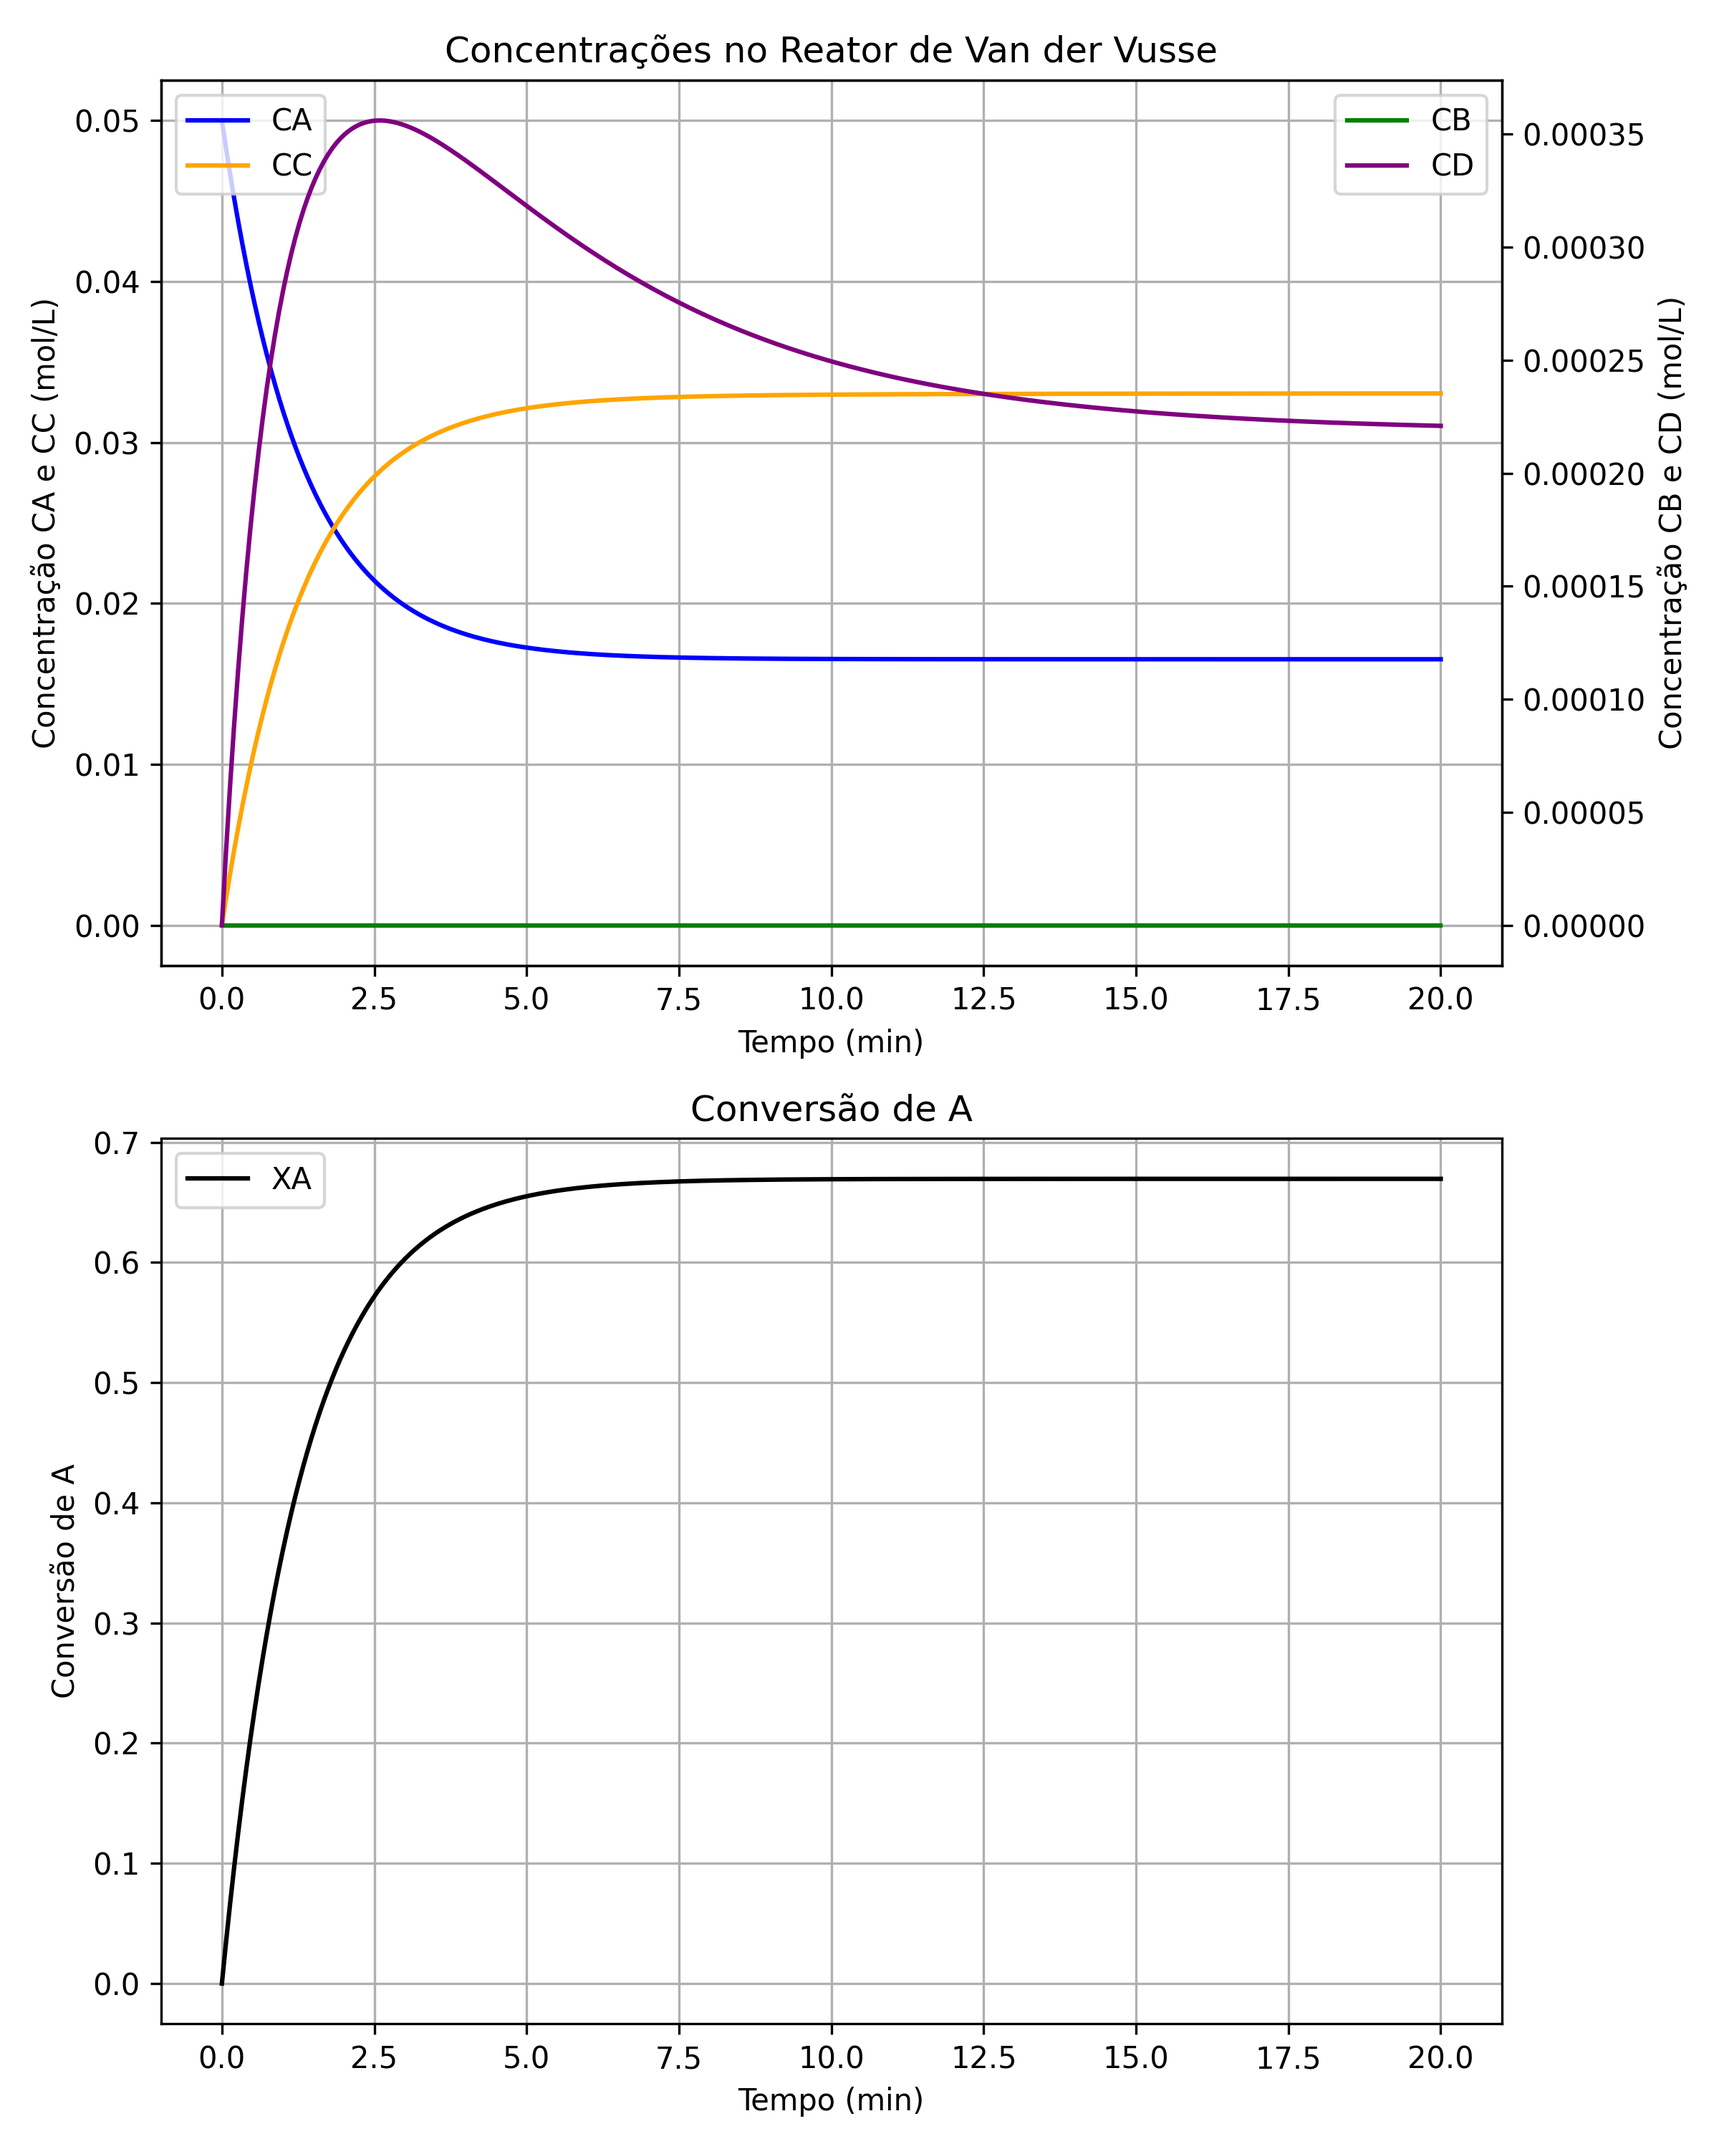
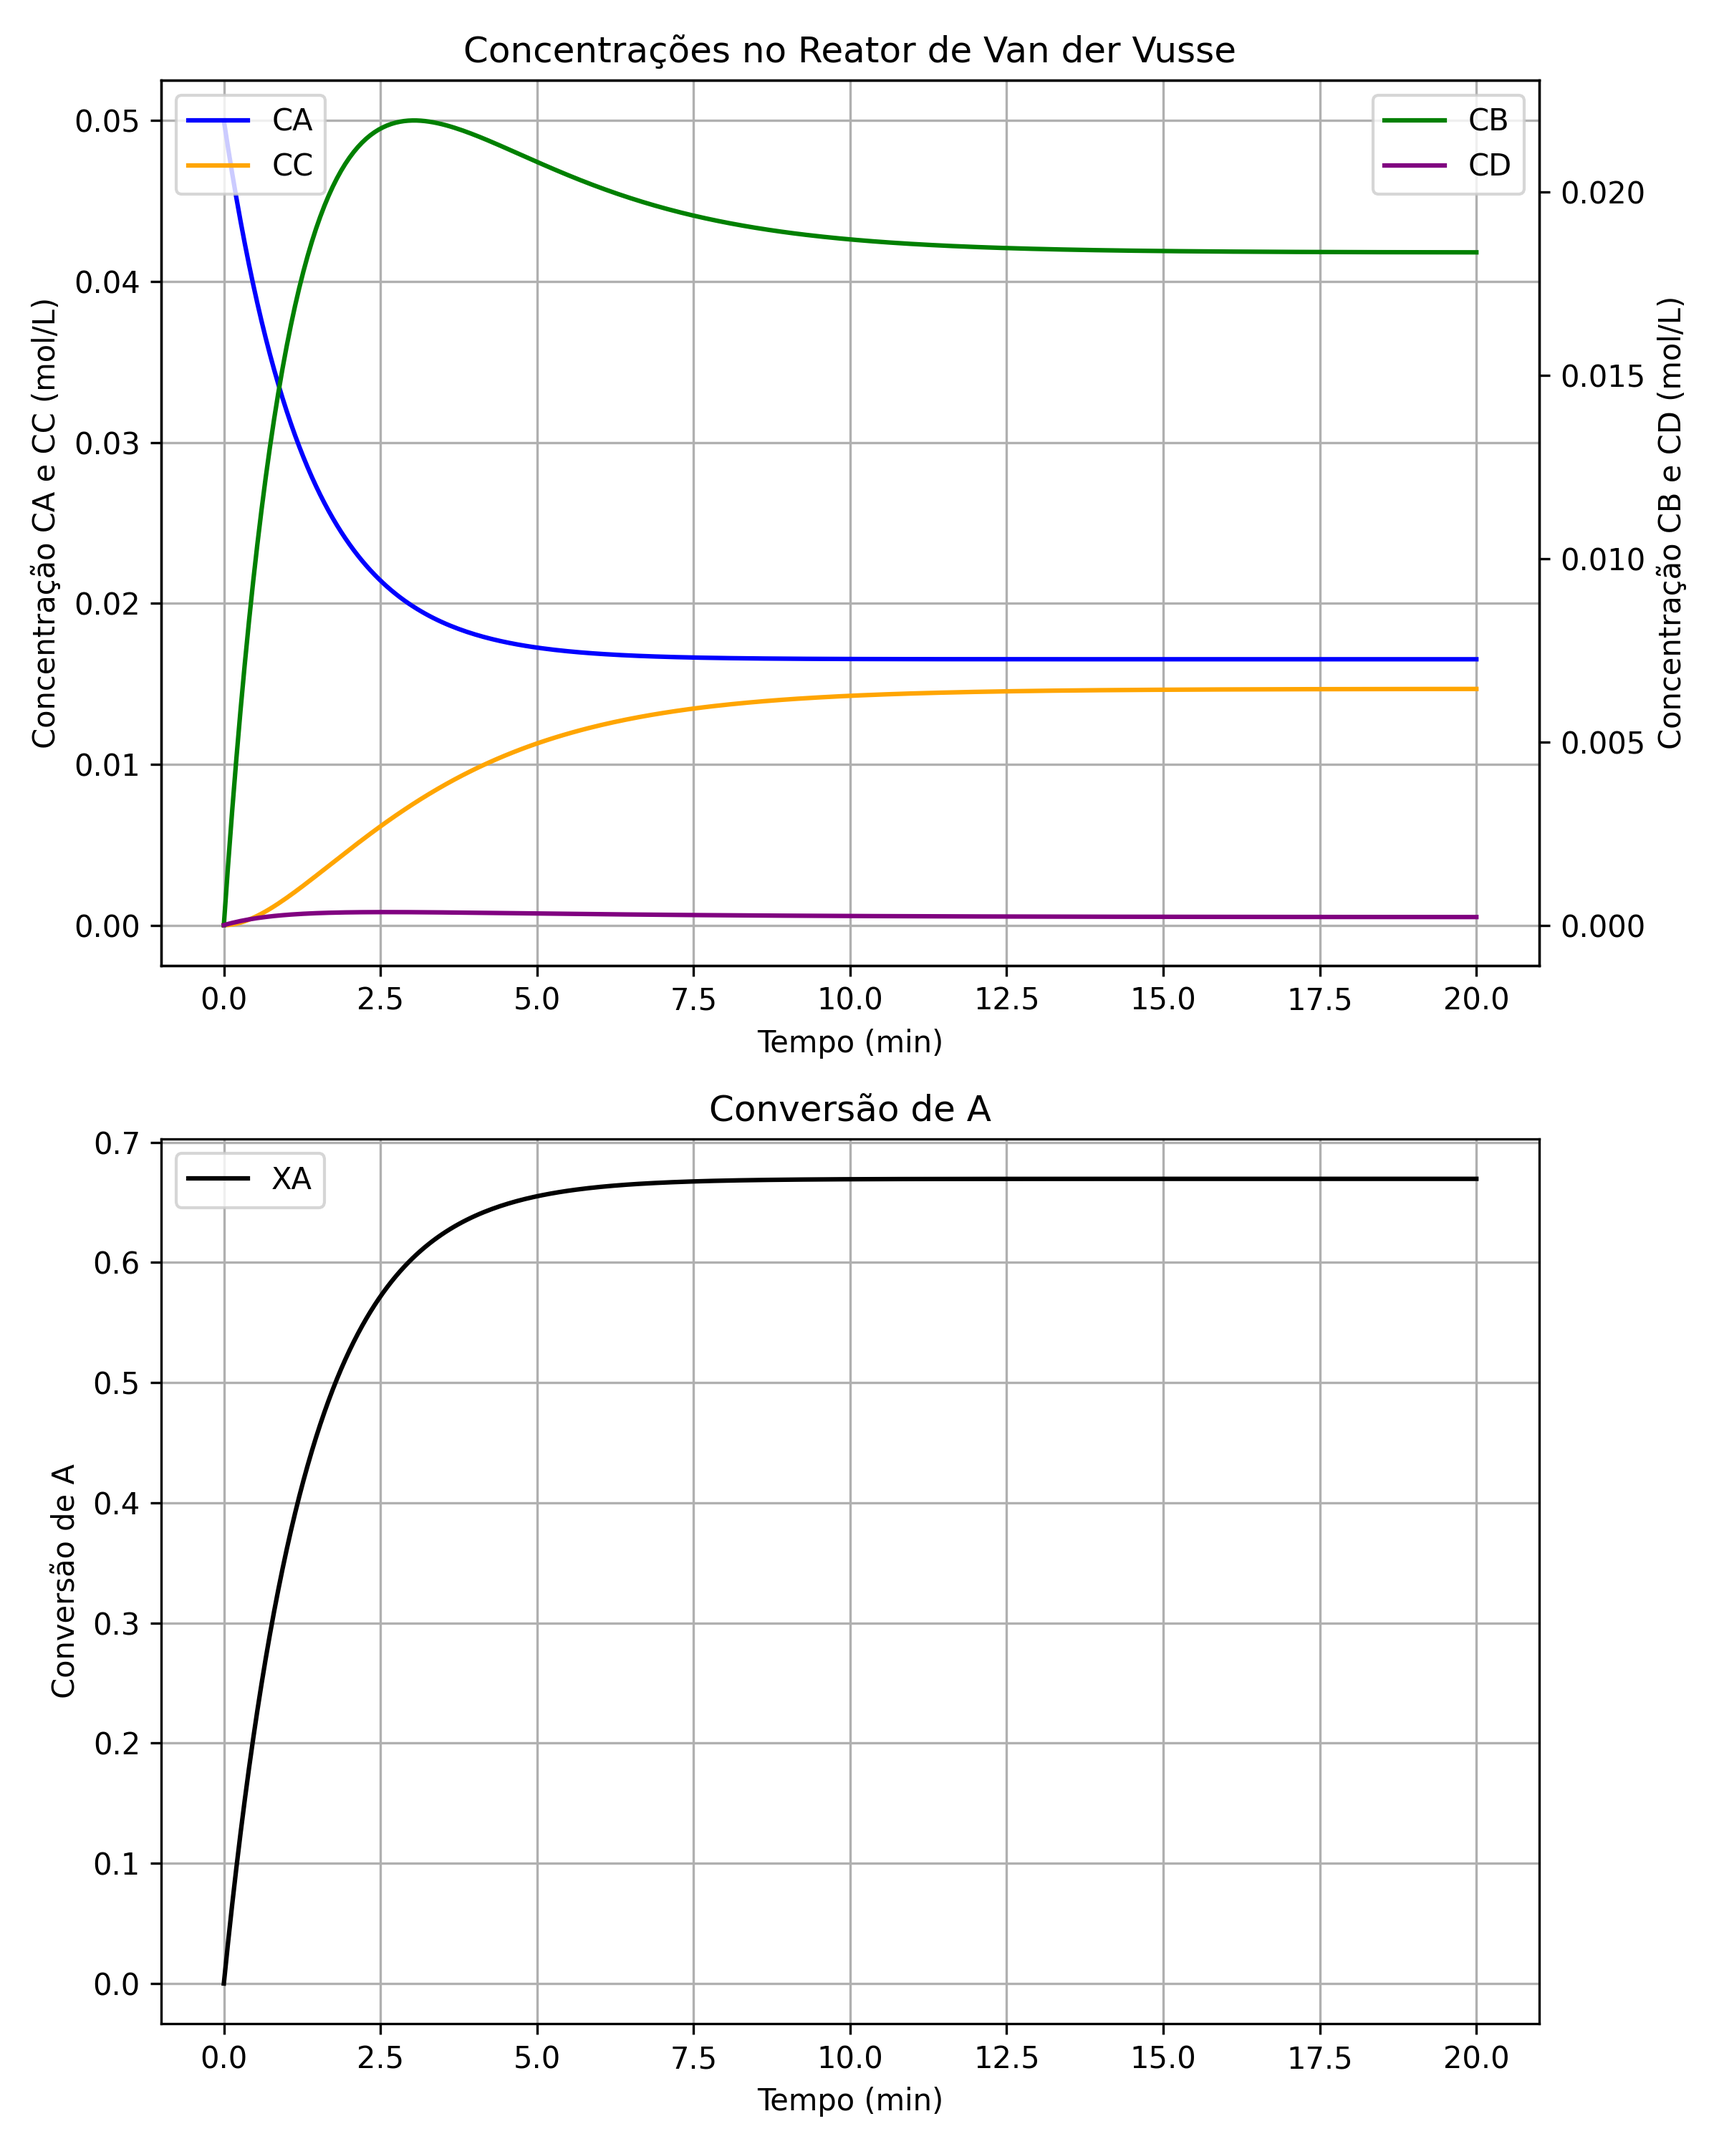
ok

diff --git a/exercicios sala de aula/aula 08/solucao.py b/exercicios sala de aula/aula 08/solucao.py
@@ -37,8 +37,8 @@ def model(t, y):
 
     # Equações diferenciais do reator CSTR com Qin e Qout
     dCadt = (1/V)*(Qin*Ca_in - Qout*Ca - r1*V - 2*r3*V)
-    dCcdt = (1/V)*(Qin*Cb_in - Qout*Cc + r1*V - r2*V)
-    dCbdt = (1/V)*(Qin*Cc_in - Qout*Cb + r2*V)
+    dCbdt = (1/V)*(Qin*Cb_in - Qout*Cb + r1*V - r2*V)
+    dCcdt = (1/V)*(Qin*Cc_in - Qout*Cc + r2*V)
     dCddt = (1/V)*(Qin*Cd_in - Qout*Cd + r3*V)
 
     return [dCadt, dCbdt, dCcdt, dCddt]
